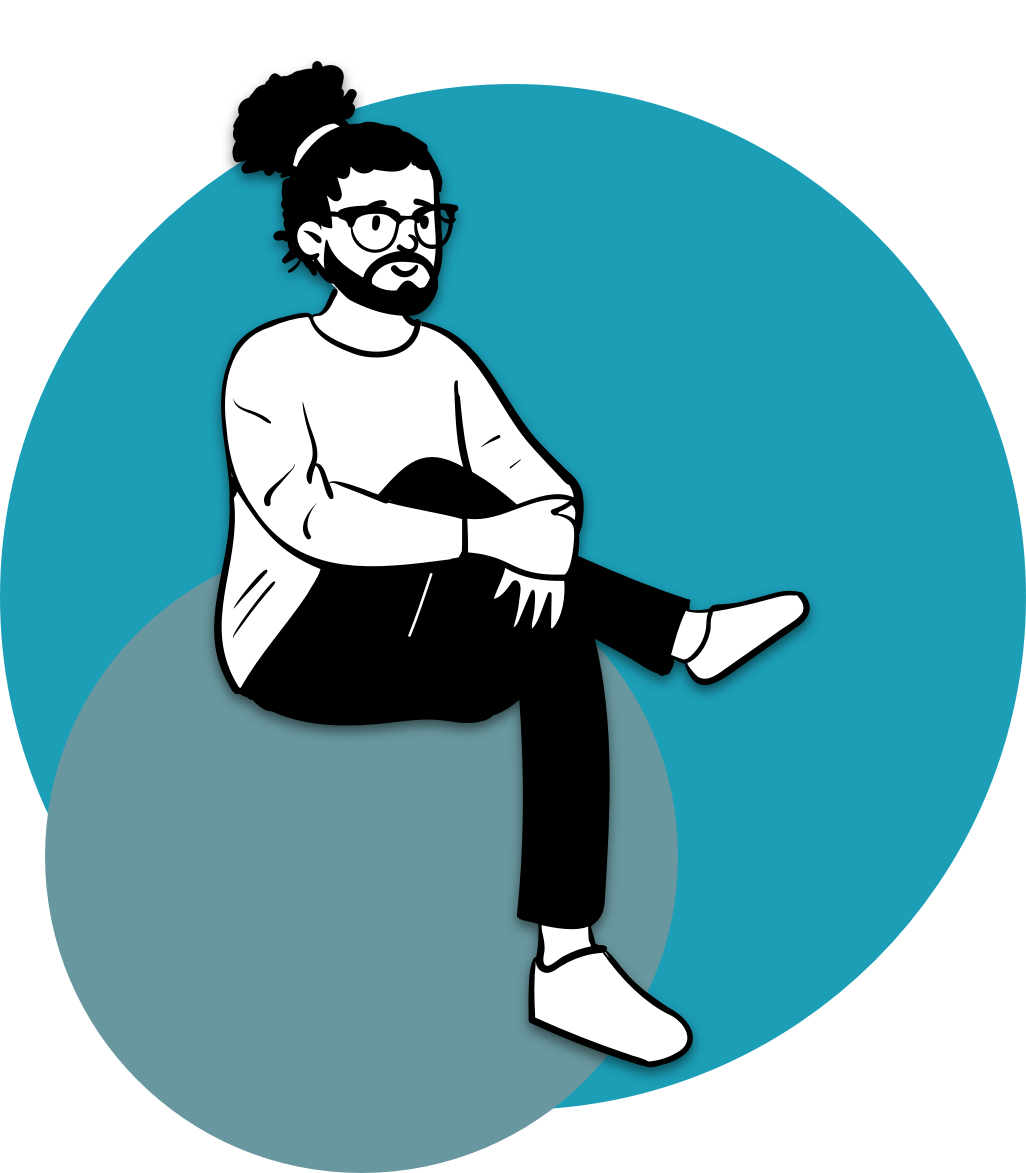
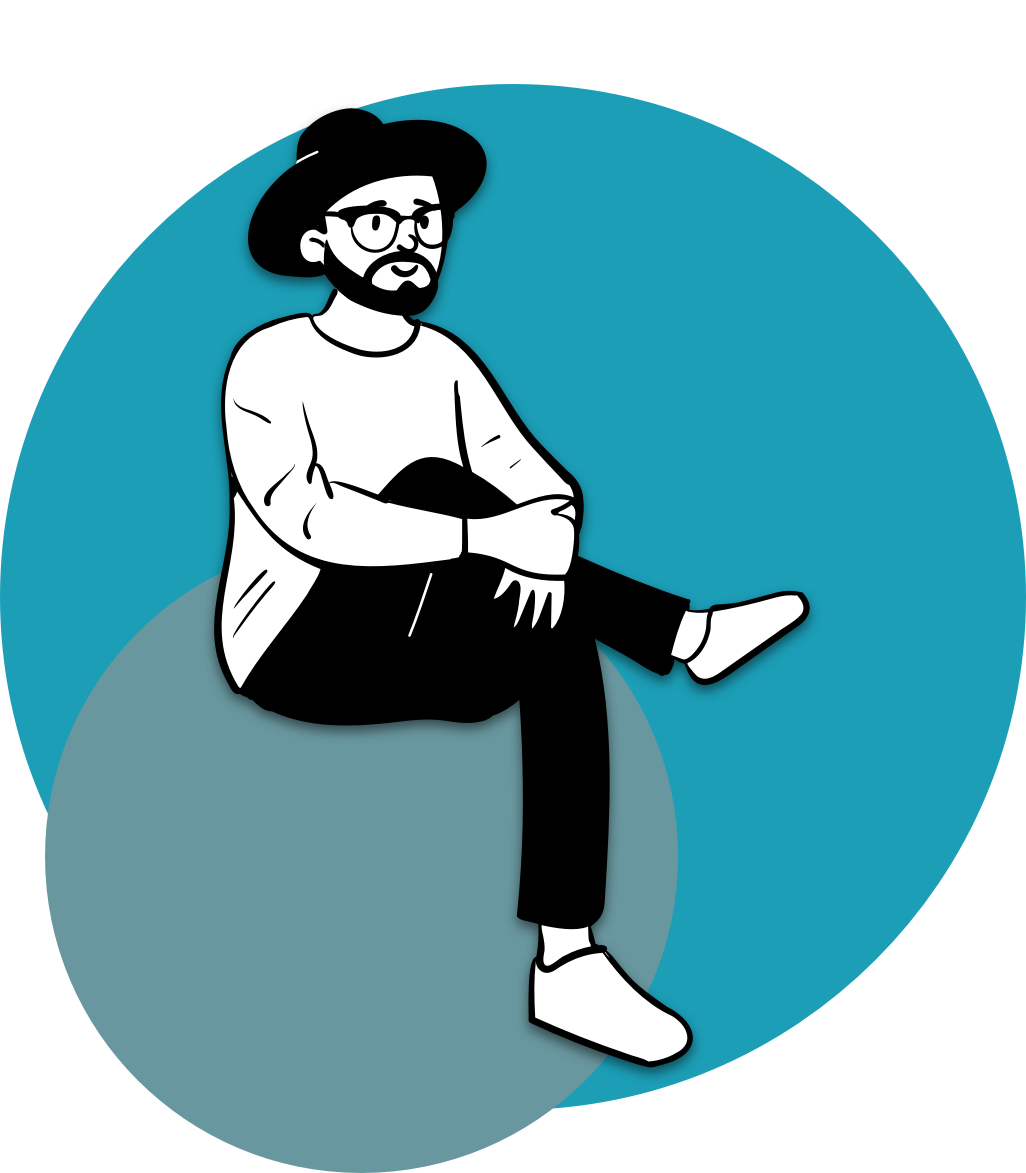
Add work section and tiles components

Changed region(s): [[0.2183, 0.0307, 0.499, 0.2455]]

diff --git a/src/components/hero.js b/src/components/hero.js
@@ -6,20 +6,39 @@ import styled from "styled-components"
 import Button from "./button"
 
 const HeroContainer = styled.div`
-  width: 100%;
-  height: 65vh;
+  max-width: 80rem;
+  margin: 0 auto;
+  height: 60vh;
   display: flex;
   justify-content: space-evenly;
   align-items: center;
+  @media ${props => props.theme.breakpoints.mobile} {
+    height: auto;
+    flex-direction: column-reverse;
+    justify-content: center;
+  }
 `
 const TitleContainer = styled.div`
   width: 50%;
   display: block;
+  @media ${props => props.theme.breakpoints.mobile} {
+    width: 90%;
+    text-align: center;
+  }
 `
 const HeroTitle = styled.h1`
   font-size: ${props => props.theme.fontSize.title};
   font-weight: ${props => props.theme.fontWeight.bold};
   line-height: 140%;
+  @media ${props => props.theme.breakpoints.mobile} {
+    font-size: ${props => props.theme.fontSize.small};
+  }
+`
+const ImageWrapper = styled.div`
+  width: 20rem;
+  @media ${props => props.theme.breakpoints.mobile} {
+    width: 10rem;
+  }
 `
 const Span = styled.span`
   color: ${props => props.theme.colors.primary};
@@ -28,7 +47,7 @@ const Span = styled.span`
 const Hero = props => {
   const img = useStaticQuery(graphql`
     query {
-      peepJonathan: file(relativePath: { eq: "peep-jonathan.png" }) {
+      peep_jonathan_hero: file(relativePath: { eq: "peep-jonathan-hero.png" }) {
         childImageSharp {
           fluid(maxWidth: 300) {
             ...GatsbyImageSharpFluid
@@ -43,15 +62,14 @@ const Hero = props => {
       <TitleContainer>
         <HeroTitle>
           ( “Hello, World” ) 👋 <br />
-          My name is <Span>Jonathan Giardino</Span>. <br /> I design and build
-          awesome stuff for the <Span>Web</Span> and <Span>iOS</Span>.
+          My name is <Span>Jonathan Giardino</Span>. <br /> I design and develop
+          awesome experiences for <Span>Web</Span> and <Span>Mobile</Span>.
         </HeroTitle>
-        <Button text="Drop me a line" action={() => alert("hello")} />
+        <Button text="Get in touch" action={() => alert("hello")} />
       </TitleContainer>
-      <Img
-        fluid={img.peepJonathan.childImageSharp.fluid}
-        style={{ width: "20rem" }}
-      />
+      <ImageWrapper>
+        <Img fluid={img.peep_jonathan_hero.childImageSharp.fluid} />
+      </ImageWrapper>
     </HeroContainer>
   )
 }

diff --git a/src/components/header.js b/src/components/header.js
@@ -9,10 +9,12 @@ import ToggleDarkMode from "./toggle"
 
 // Style
 const Nav = styled.div`
+  max-width: 80rem;
+  margin: 0 auto;
   display: flex;
   justify-content: flex-end;
   align-items: center;
-  padding: ${props => props.theme.spacing.small} 0;
+  padding: ${props => props.theme.spacing.small};
 `
 const Menu = styled.div`
   display: flex;
@@ -26,6 +28,9 @@ const MenuIcon = styled.div`
   justify-content: center;
   align-items: center;
   margin-left: ${props => props.theme.spacing.medium};
+  @media ${props => props.theme.breakpoints.mobile} {
+    display: none;
+  }
 `
 // Component
 const Header = () => {
@@ -40,7 +45,7 @@ const Header = () => {
         <MenuItem title="Blog" />
         <Link to="/page-2/" style={{ textDecoration: "none" }}>
           <MenuIcon style={{ color: state.isDark ? "#fff" : "#09323a" }}>
-            <MdEmail style={{ fontSize: "1.5rem" }} />
+            <MdEmail style={{ fontSize: "2rem" }} />
           </MenuIcon>
         </Link>
         <ToggleDarkMode />

diff --git a/src/components/button.js b/src/components/button.js
@@ -6,16 +6,17 @@ const ButtonStyled = styled.button`
   outline-offset: 0.5rem;
   width: 12.5rem;
   height: 3.125rem;
-  border-radius: 0.75rem;
+  border-radius: 0.5rem;
   border: 0.15rem solid ${props => props.theme.colors.dark};
   margin: 1rem 0;
+  background-color: ${props => props.theme.colors.light};
   color: ${props => props.theme.colors.dark};
   box-shadow: ${props => props.theme.shadows.normal};
   font-family: ${props => props.theme.fonts.main};
   font-size: ${props => props.theme.fontSize.extraSmall};
   font-weight: ${props => props.theme.fontWeight.medium};
   cursor: pointer;
-  transition: all 0.3s linear;
+  transition: all 0.1s linear;
   &:hover {
     transform: translateX(0.1rem) translateY(0.1rem);
     box-shadow: ${props => props.theme.shadows.reduced};

diff --git a/src/themes/theme.js b/src/themes/theme.js
@@ -16,7 +16,9 @@ export default {
     description: "1rem",
     smallTitle: "1.75rem",
     text: "1.5rem",
+    small: "1.25rem",
     title: "2rem",
+    hero: "2.2rem",
   },
   fontWeight: {
     light: "300",
@@ -41,10 +43,14 @@ export default {
     small: "1rem",
     medium: "2rem",
     large: "3rem",
+    xlarge: "5rem",
   },
   animations: {},
   shadows: {
     normal: "4px 4px 0px 0px rgba(28,158,183,1)",
     reduced: "2px 2px 0px 0px rgba(28,158,183,1)",
+    dark: "4px 4px 0px 0px #116170",
+    darkReduced: "2px 2px 0px 0px rgba(9, 50, 58, 1)",
+    text: "2px 2px 0px rgba(28,158,183,1)",
   },
 }

diff --git a/src/components/layout.js b/src/components/layout.js
@@ -11,13 +11,6 @@ const Body = styled.body`
   text-decoration: none;
 `
 
-const Container = styled.div`
-  height: 100%;
-  max-width: 75rem;
-  margin: 0 auto;
-  padding: 0 1rem;
-`
-
 const Layout = ({ children }) => {
   const { state } = useContext(Context)
 
@@ -49,9 +42,7 @@ const Layout = ({ children }) => {
         fluid={data.Corner.childImageSharp.fluid}
         style={{ width: "5rem", position: "absolute", top: "0", left: "0" }}
       />
-      <Container>
-        <main>{children}</main>
-      </Container>
+      <main>{children}</main>
     </Body>
   )
 }

diff --git a/src/pages/index.js b/src/pages/index.js
@@ -7,6 +7,7 @@ import Layout from "../components/layout"
 import SEO from "../components/seo"
 import Header from "../components/header"
 import Hero from "../components/hero"
+import HorizontalScroll from "../components/horizontalScroll"
 
 const IndexPage = () => {
   return (
@@ -14,6 +15,7 @@ const IndexPage = () => {
       <SEO title="Home" />
       <Header />
       <Hero />
+      <HorizontalScroll />
     </Layout>
   )
 }

diff --git a/gatsby-config.js b/gatsby-config.js
@@ -40,7 +40,7 @@ module.exports = {
       resolve: `gatsby-plugin-google-fonts`,
       options: {
         fonts: [
-          `Monospace`,
+          `Monospace\:300,400,600,900`,
           `Poppins\:300,400,600,900`, // you can also specify font weights and styles
         ],
         display: "swap",

diff --git a/src/components/menuItem.js b/src/components/menuItem.js
@@ -12,6 +12,9 @@ const MenuLink = styled.a`
   &:hover {
     color: ${props => props.theme.colors.primary} !important;
   }
+  @media ${props => props.theme.breakpoints.mobile} {
+    display: none;
+  }
 `
 
 const MenuItem = props => {

diff --git a/src/components/toggle.js b/src/components/toggle.js
@@ -50,7 +50,7 @@ const Slider = styled.span`
     position: absolute;
     content: "";
     height: 1.6rem;
-    width: 1.6em;
+    width: 1.6rem;
     left: 0.1rem;
     bottom: 0.1rem;
     background-color: white;
